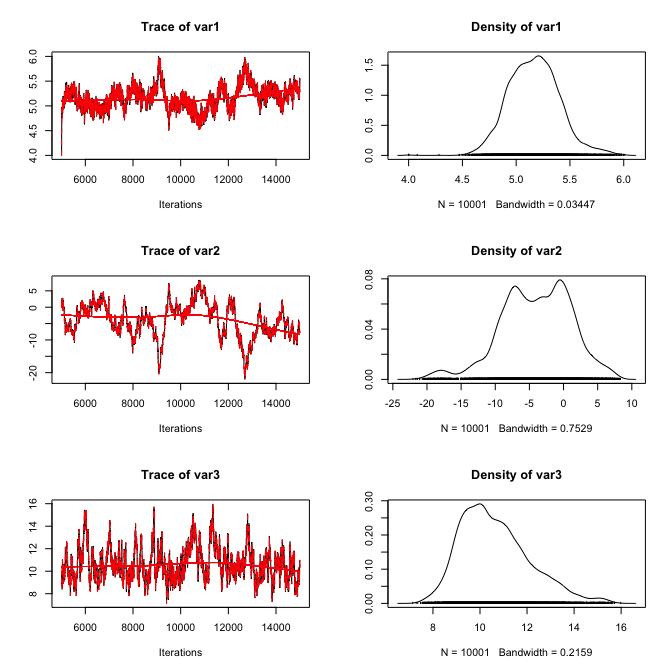
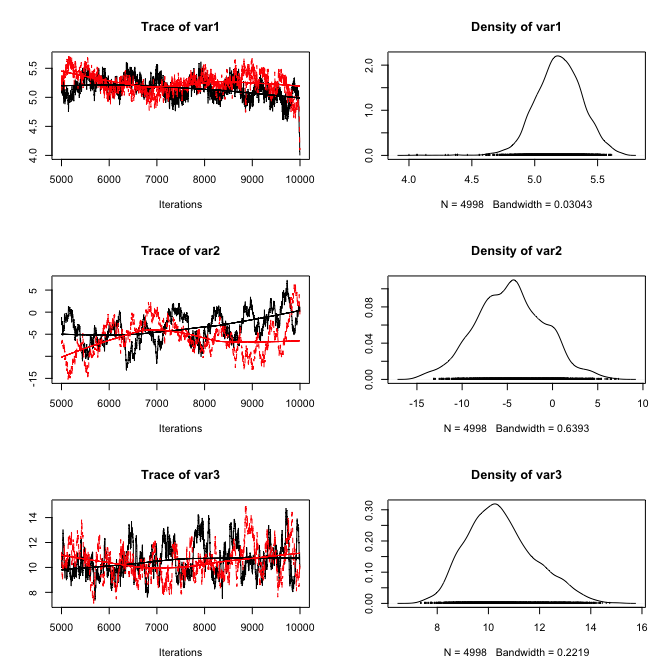
updates metropolis

diff --git a/CommentedCode/02-Samplers/MCMC/Metropolis.md b/CommentedCode/02-Samplers/MCMC/Metropolis.md
@@ -107,7 +107,6 @@ posterior <- function(param){
    return (likelihood(param) + prior(param))
 }
 ```
-<br />
 
 ## The MCMC
 
@@ -142,12 +141,6 @@ run_metropolis_MCMC <- function(startvalue, iterations){
     }
     return(chain)
 }
- 
-startvalue = c(4,0,10)
-chain = run_metropolis_MCMC(startvalue, 10000)
- 
-burnIn = 5000
-acceptance = 1-mean(duplicated(chain[-(1:burnIn),]))
 ```
 
 
@@ -157,16 +150,22 @@ $$(probab = exp(posterior(proposal) – posterior(chain[i,])))$$
 
 To understand why we do this: note that $p1/p2 = exp[log(p1)-log(p2)]$
 
-The first steps of the algorithm may be biased by the initial value, and are therefore usually discarded for the further analysis (burn-in time). An interesting output to look at is the acceptance rate: how often was a proposal rejected by the metropolis-hastings acceptance criterion? The acceptance rate can be influenced by the proposal function: generally, the closer the proposals are, the larger the acceptance rate. Very high acceptance rates, however, are usually not beneficial: this means that the algorithms is “staying” at the same point, which results in a suboptimal probing of the parameter space (mixing). It can be shown that acceptance rates between 20% and 30% are optimal for typical applications (more on that here).
-
-Finally, we can plot the results. I transform the chain to an mcmc object, and then we can do
+OK, let's run the algorithm
 
 
 ```r
-result <- mcmc(chain, start = burnIn)
+startvalue = c(4,0,10)
+chain = run_metropolis_MCMC(startvalue, 10000)
 ```
 
-What’s the sense of the mcmc function here? The mcmc function is part of the coda R package that provides a number of standard functions for plotting and analysis of the posterior samples. For those functions to work, you need to have your output as an object of class “mcmc”, or “mcmc.list”, which we will discuss later. Coda is the standard package for this type of analysis, and most Bayesian packages in R use this class to return MCMC outputs, so you will likely come across this syntax whatever Bayesian code you are running.
+The first steps of the algorithm may be biased by the initial value, and are therefore usually discarded for the further analysis (burn-in time). To discard the first 5000 steps, and transform the chain to an mcmc object, run this
+
+
+```r
+result <- mcmc(chain[5000:ncol(chain),], start = 5000)
+```
+
+The mcmc function is part of the coda R package that provides a number of standard functions for plotting and analysis of the posterior samples. For those functions to work, you need to have your output as an object of class “mcmc”, or “mcmc.list”, which we will discuss later. Coda is the standard package for this type of analysis, and most Bayesian packages in R use this class to return MCMC outputs, so you will likely come across this syntax whatever Bayesian code you are running.
 
 Objects of class “mcmc” hold and array with the mcmc samples, and a number of additional information. You can look at the structure with str(chain), and you can transform a “mcmc” object back to a normal data-frame by data.frame(chain).
 
@@ -177,7 +176,7 @@ The advantage of having a coda object is that a lot of things that we typically 
 plot(result)
 ```
 
-![](Metropolis_files/figure-html/unnamed-chunk-3-1.png) 
+![](Metropolis_files/figure-html/unnamed-chunk-4-1.png) 
 
 ```r
 summary(result) 
@@ -185,28 +184,30 @@ summary(result)
 
 ```
 ## 
-## Iterations = 5000:15000
+## Iterations = 5000:9997
 ## Thinning interval = 1 
 ## Number of chains = 1 
-## Sample size per chain = 10001 
+## Sample size per chain = 4998 
 ## 
 ## 1. Empirical mean and standard deviation for each variable,
 ##    plus standard error of the mean:
 ## 
-##         Mean    SD Naive SE Time-series SE
-## [1,]  4.7893 0.212  0.00212        0.01094
-## [2,] -0.2731 1.824  0.01824        0.15322
-## [3,] 10.1594 1.304  0.01304        0.13246
+##         Mean     SD Naive SE Time-series SE
+## [1,]  4.7941 0.2208 0.003123        0.01684
+## [2,] -0.2489 1.8022 0.025492        0.21304
+## [3,] 10.1506 1.2411 0.017555        0.17281
 ## 
 ## 2. Quantiles for each variable:
 ## 
-##        2.5%    25%     50%     75%  97.5%
-## var1  4.369  4.651  4.7878  4.9348  5.196
-## var2 -3.916 -1.525 -0.3124  0.9753  3.256
-## var3  7.991  9.199 10.0191 10.9778 13.000
+##        2.5%    25%     50%     75% 97.5%
+## var1  4.372  4.650  4.7911  4.9401  5.23
+## var2 -3.617 -1.529 -0.4292  0.9765  3.41
+## var3  8.022  9.263 10.0035 10.9210 12.83
 ```
 
-I think the summary is self-explanatory (otherwise check out the help), but maybe a few words on the results of the plot() function: each row corresponds to one parameter, so there a are two plots for each parameter. The left plot is called a trace plot – it shows the values the parameter took during the runtime of the chain. The right plot is usually called a marginal density plot. Basically, it is the (smoothened) histogram of the values in the trace-plot, i.e. the distribution of the values of the parameter in the chain.
+An interesting statistics provided by summary is the acceptance rate: how often was a proposal rejected by the metropolis-hastings acceptance criterion? The acceptance rate can be influenced by the proposal function: generally, the closer the proposals are, the larger the acceptance rate. Very high acceptance rates, however, are usually not beneficial: this means that the algorithms is “staying” at the same point, which results in a suboptimal probing of the parameter space (mixing). It can be shown that acceptance rates between 20% and 30% are optimal for typical applications (more on that later).
+
+In the plot() function, each row corresponds to one parameter, so there a are two plots for each parameter. The left plot is called a trace plot – it shows the values the parameter took during the runtime of the chain. The right plot is usually called a marginal density plot. Basically, it is the (smoothened) histogram of the values in the trace-plot, i.e. the distribution of the values of the parameter in the chain.
 
 Comparison with the normal lm:
 
@@ -295,8 +296,8 @@ In our case, there is be no large correlations because I set up the example in t
 ```r
 x <- (-(sampleSize-1)/2):((sampleSize-1)/2) + 20
 y <-  trueA * x + trueB + rnorm(n=sampleSize,mean=0,sd=trueSd)
-chain = mcmc(run_metropolis_MCMC(startvalue, 10000), start = 5000)
-betterPairs(data.frame(run_metropolis_MCMC(startvalue, 10000)))
+chain = mcmc(run_metropolis_MCMC(startvalue, 10000)[5000:ncol(chain),], start = 5000)
+betterPairs(data.frame(chain))
 ```
 
 ![](Metropolis_files/figure-html/marginal_densities3-1.png) 
@@ -312,7 +313,7 @@ Now, to the convergence: an MCMC creates a sample from the posterior distributio
 
 
 ```r
-chain2 = chain = mcmc(run_metropolis_MCMC(startvalue, 10000), start = 5000)
+chain2 = mcmc(run_metropolis_MCMC(startvalue, 10000)[5000:ncol(chain),], start = 5000)
 combinedchains = mcmc.list(chain, chain2) 
 plot(combinedchains)
 ```
@@ -327,13 +328,13 @@ gelman.diag(combinedchains)
 ## Potential scale reduction factors:
 ## 
 ##      Point est. Upper C.I.
-## [1,]        NaN        NaN
-## [2,]        NaN        NaN
-## [3,]        NaN        NaN
+## [1,]       1.13       1.48
+## [2,]       1.17       1.59
+## [3,]       1.00       1.02
 ## 
 ## Multivariate psrf
 ## 
-## 1
+## 1.12
 ```
 
 The gelman.diag gives you the scale reduction factors for each parameter. A factor of 1 means that between variance and within chain variance are equal, larger values mean that there is still a notable difference between chains. Often, it is said that everything below 1.1 or 1.05 or so is OK, but note that this is more a rule of thumb, and also depends what you want to estimate of the chain. Look at this plot, which shows the development of the 0.025,0.5,0.975 quantiles over time for each parameter. 
@@ -343,7 +344,7 @@ The gelman.diag gives you the scale reduction factors for each parameter. A fact
 cumuplot(chain)
 ```
 
-![](Metropolis_files/figure-html/unnamed-chunk-5-1.png) 
+![](Metropolis_files/figure-html/unnamed-chunk-6-1.png) 
 
 The point to note here is that the median typically stabalizes a lot quicker than the 0.025 quantiles, or other extreme value statistics such as the max, which one should expect when sampling from a distribution. The recommendations for the gelman diagnostics are derived for estimations of central summary statistics of the chain, such as median and mean. If you want to estimate other properties, you may want to be more critical. 
 
@@ -354,13 +355,7 @@ Another issue about the gelman-diag is that the diagnostics itself is quite vari
 gelman.plot(combinedchains)
 ```
 
-```
-## 
-## ******* Error: *******
-## Cannot compute Gelman & Rubin's diagnostic for any chain 
-## segments for variables 
-## This indicates convergence failure
-```
+![](Metropolis_files/figure-html/unnamed-chunk-7-1.png) 
 
 The gelman,plot shows you the development of the scale-reduction over time (chain steps), which is useful to see whether a low chain reduction is also stable (sometimes, the factors go down and then up again, as you will see). Also, note that for any real analysis, you have to make sure to discard any bias that arises from the starting point of your chain (burn-in), typical values here are a few 1000-10000 steps. The gelman plot is also a nice tool to see roughly where this point is, that is, from which point on the chains seem roughly converged.
 
@@ -385,13 +380,13 @@ proposalfunction <- function(param){
 
 startvalue = c(4,0,10)
 
-chain1 = mcmc(run_metropolis_MCMC(startvalue, 10000), start = 5000)
-chain2 = mcmc(run_metropolis_MCMC(startvalue, 10000), start = 5000)
+chain1 = mcmc(run_metropolis_MCMC(startvalue, 10000)[5000:ncol(chain),], start = 5000)
+chain2 = mcmc(run_metropolis_MCMC(startvalue, 10000)[5000:ncol(chain),], start = 5000)
 combinedchains = mcmc.list(chain1, chain2) 
 plot(combinedchains)
 ```
 
-![](Metropolis_files/figure-html/unnamed-chunk-7-1.png) 
+![](Metropolis_files/figure-html/unnamed-chunk-8-1.png) 
 
 ```r
 #gelman.plot(combinedchains)
@@ -404,13 +399,13 @@ Proposalfunction too wide
 proposalfunction <- function(param){
   return(rnorm(3,mean = param, sd= c(1000,0.5,0.3)))
 }
-chain1 = mcmc(run_metropolis_MCMC(startvalue, 10000), start = 5000)
-chain2 = mcmc(run_metropolis_MCMC(startvalue, 10000), start = 5000)
+chain1 = mcmc(run_metropolis_MCMC(startvalue, 10000)[5000:ncol(chain),], start = 5000)
+chain2 = mcmc(run_metropolis_MCMC(startvalue, 10000)[5000:ncol(chain),], start = 5000)
 combinedchains = mcmc.list(chain1, chain2) 
 plot(combinedchains)
 ```
 
-![](Metropolis_files/figure-html/unnamed-chunk-8-1.png) 
+![](Metropolis_files/figure-html/unnamed-chunk-9-1.png) 
 
 ```r
 #gelman.plot(combinedchains)
